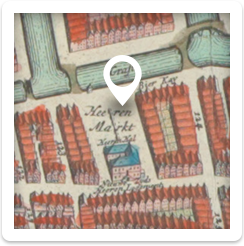
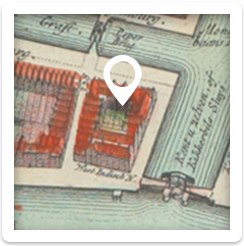
changes from museum feedback

diff --git a/js/app.js b/js/app.js
@@ -431,8 +431,8 @@ var app = {
         }); 
 
         this.addMarker({
-          lat: -11.092165893501988, 
-          lng: 74.267578125, 
+          lat: -31.9921875,
+		  lng: 1.098565496040652,
           title: 'Het West Indisch Huys',
           url: '/'+language+'/west-indisch-huys/'
         }); 
